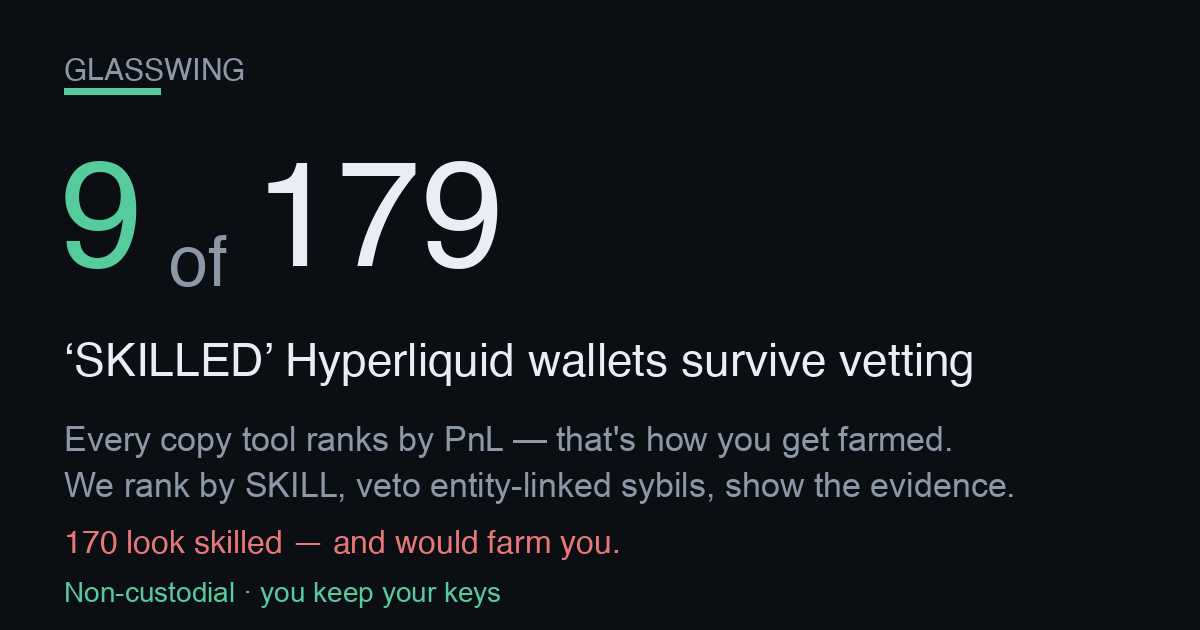
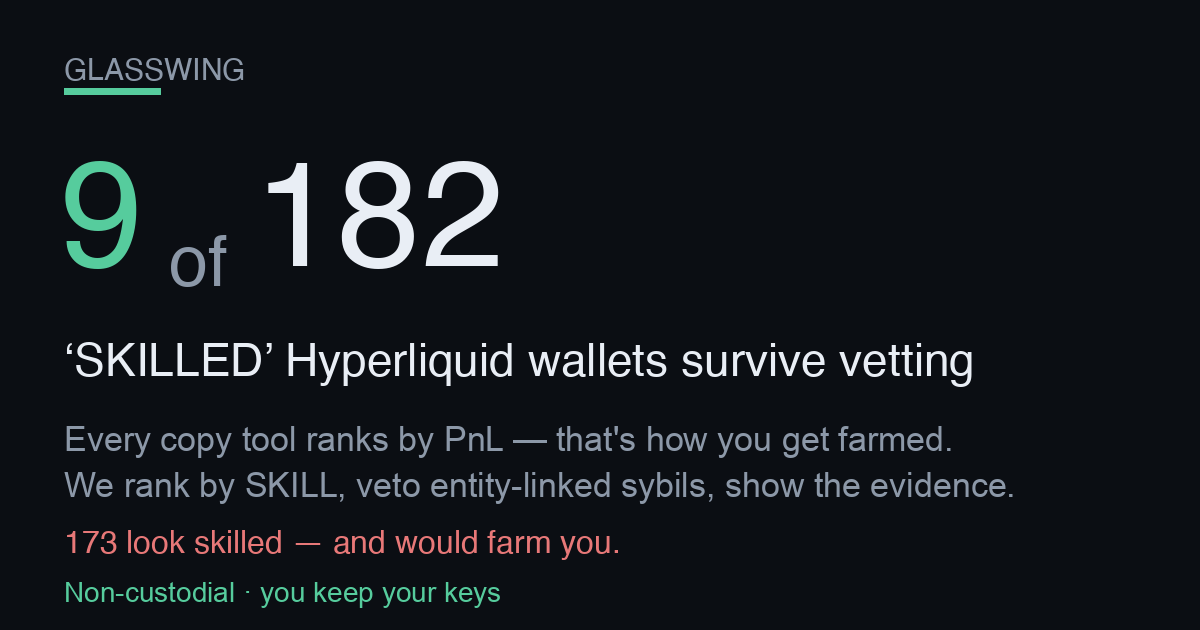
publish funnel 2026-08-08T13:53:46Z

Changed region(s): [[0.2775, 0.2413, 0.4317, 0.4524]]

diff --git a/screener.html b/screener.html
@@ -57,4 +57,4 @@ padding:11px 22px;font-size:15px;font-weight:800;border:1px solid var(--good)}
 footer{margin-top:34px;color:var(--muted);font-size:12px;line-height:1.6;
 border-top:1px solid var(--line);padding-top:16px}
 footer b{color:var(--ink)}
-</style></head><body><div class="wrap"><div class="nav"><a href="./index.html">&larr; Glasswing home</a><span class="sep">|</span><span>Edge Screener</span><span class="sep">|</span><a href="./dex.html">Copy a vetted leader</a></div><div class="hero"><h1>Hyperliquid Edge Screener</h1><div class="sub">Where&rsquo;s the carry, where a maker earns, and what&rsquo;s moving on Hyperliquid &mdash; live, computed from the public API. Bookmark it. Every number below is real and timestamped.</div><div class="stamp">Data as of <b>2026-08-08T07:48:30Z</b> &middot; rendered 2026-08-08T07:48:30Z &middot; 177 perps &middot; 94 HIP-3 (xyz) markets scanned</div></div><h2>Top funding &mdash; the carry table <span class="hint">perps ranked by annualized funding. Positive = longs pay shorts (a delta-neutral short earns it).</span></h2><div class="tblwrap"><table><thead><tr><th>Coin</th><th>Funding / hr</th><th>Annualized</th><th>Who pays</th><th>Open interest</th><th>24h volume</th></tr></thead><tbody><tr><td class="coin">ACE</td><td>-0.0771%</td><td class="neg">-675.5%</td><td><span class="tag shorts">shorts pay</span></td><td>$1.2M</td><td>$8.5M</td></tr><tr><td class="coin">CASHCAT</td><td>+0.0235%</td><td class="pos">+205.7%</td><td><span class="tag longs">longs pay</span></td><td>$14.3M</td><td>$12.6M</td></tr><tr><td class="coin">0G<span class="tag thin" title="Low liquidity/OI &mdash; ADL &amp; liquidation risk; funding can flip">&#9888; thin</span></td><td>-0.0126%</td><td class="neg">-110.4%</td><td><span class="tag shorts">shorts pay</span></td><td>$155K</td><td>$224K</td></tr><tr><td class="coin">MINA<span class="tag thin" title="Low liquidity/OI &mdash; ADL &amp; liquidation risk; funding can flip">&#9888; thin</span></td><td>-0.0118%</td><td class="neg">-103.5%</td><td><span class="tag shorts">shorts pay</span></td><td>$700K</td><td>$85K</td></tr><tr><td class="coin">ALT<span class="tag thin" title="Low liquidity/OI &mdash; ADL &amp; liquidation risk; funding can flip">&#9888; thin</span></td><td>-0.0094%</td><td class="neg">-82.6%</td><td><span class="tag shorts">shorts pay</span></td><td>$612K</td><td>$85K</td></tr><tr><td class="coin">FARTCOIN</td><td>+0.0069%</td><td class="pos">+60.7%</td><td><span class="tag longs">longs pay</span></td><td>$22.1M</td><td>$5.1M</td></tr><tr><td class="coin">BERA<span class="tag thin" title="Low liquidity/OI &mdash; ADL &amp; liquidation risk; funding can flip">&#9888; thin</span></td><td>-0.0065%</td><td class="neg">-56.8%</td><td><span class="tag shorts">shorts pay</span></td><td>$1.3M</td><td>$171K</td></tr><tr><td class="coin">ZK<span class="tag thin" title="Low liquidity/OI &mdash; ADL &amp; liquidation risk; funding can flip">&#9888; thin</span></td><td>-0.0063%</td><td class="neg">-55.2%</td><td><span class="tag shorts">shorts pay</span></td><td>$561K</td><td>$99K</td></tr><tr><td class="coin">MORPHO</td><td>-0.0059%</td><td class="neg">-51.3%</td><td><span class="tag shorts">shorts pay</span></td><td>$4.0M</td><td>$598K</td></tr><tr><td class="coin">HYPER<span class="tag thin" title="Low liquidity/OI &mdash; ADL &amp; liquidation risk; funding can flip">&#9888; thin</span></td><td>-0.0057%</td><td class="neg">-50.1%</td><td><span class="tag shorts">shorts pay</span></td><td>$324K</td><td>$143K</td></tr><tr><td class="coin">AVNT</td><td>-0.0057%</td><td class="neg">-49.7%</td><td><span class="tag shorts">shorts pay</span></td><td>$755K</td><td>$390K</td></tr><tr><td class="coin">IMX<span class="tag thin" title="Low liquidity/OI &mdash; ADL &amp; liquidation risk; funding can flip">&#9888; thin</span></td><td>-0.0051%</td><td class="neg">-44.9%</td><td><span class="tag shorts">shorts pay</span></td><td>$872K</td><td>$179K</td></tr></tbody></table></div><h2>Widest HIP-3 spreads &mdash; where a maker earns <span class="hint">xyz: markets by impact-price spread vs the ~0.6bps round-trip fee. A resting limit order captures the gap.</span></h2><div class="tblwrap"><table><thead><tr><th>Market</th><th>Spread</th><th>vs 0.6bps fee</th><th>Mid</th><th>24h volume</th></tr></thead><tbody><tr><td class="coin">xyz:NCLD<span class="tag gm">growth</span></td><td>623.0 bps</td><td class="pos">+622.4 bps</td><td>23.0355</td><td>$376K</td></tr><tr><td class="coin">xyz:LYTE<span class="tag gm">growth</span></td><td>196.6 bps</td><td class="pos">+196.0 bps</td><td>27.5300</td><td>$1.3M</td></tr><tr><td class="coin">xyz:GEV<span class="tag gm">growth</span></td><td>160.2 bps</td><td class="pos">+159.6 bps</td><td>993.1400</td><td>$707K</td></tr><tr><td class="coin">xyz:GIGADEV<span class="tag gm">growth</span></td><td>143.7 bps</td><td class="pos">+143.1 bps</td><td>60.6105</td><td>$102K</td></tr><tr><td class="coin">xyz:BIRD<span class="tag gm">growth</span></td><td>136.8 bps</td><td class="pos">+136.2 bps</td><td>2.5274</td><td>$341K</td></tr><tr><td class="coin">xyz:SOFTBANK<span class="tag gm">growth</span></td><td>126.3 bps</td><td class="pos">+125.7 bps</td><td>35.0590</td><td>$101K</td></tr><tr><td class="coin">xyz:SHAZ<span class="tag gm">growth</span></td><td>97.7 bps</td><td class="pos">+97.1 bps</td><td>50.0705</td><td>$646K</td></tr><tr><td class="coin">xyz:UNITREE<span class="tag gm">growth</span></td><td>97.3 bps</td><td class="pos">+96.7 bps</td><td>82.3360</td><td>$5.1M</td></tr><tr><td class="coin">xyz:KORU<span class="tag gm">growth</span></td><td>95.9 bps</td><td class="pos">+95.3 bps</td><td>16.9790</td><td>$1.1M</td></tr><tr><td class="coin">xyz:RIVN<span class="tag gm">growth</span></td><td>84.5 bps</td><td class="pos">+83.9 bps</td><td>16.0950</td><td>$149K</td></tr><tr><td class="coin">xyz:PURRDAT</td><td>81.0 bps</td><td class="pos">+80.4 bps</td><td>6.7538</td><td>$1.4M</td></tr><tr><td class="coin">xyz:JP225<span class="tag gm">growth</span></td><td>77.9 bps</td><td class="pos">+77.3 bps</td><td>66,070.00</td><td>$774K</td></tr></tbody></table></div><h2>Momentum &amp; volume &mdash; what&rsquo;s moving <span class="hint">perps by 24h volume with the 24h price change (mark vs prior-day).</span></h2><div class="tblwrap"><table><thead><tr><th>Coin</th><th>24h volume</th><th>24h change</th><th>Mark</th></tr></thead><tbody><tr><td class="coin">BTC</td><td>$1.19B</td><td class="pos">+0.89%</td><td>64,914.60</td></tr><tr><td class="coin">ETH</td><td>$839.2M</td><td class="pos">+0.59%</td><td>1,913.59</td></tr><tr><td class="coin">HYPE</td><td>$289.3M</td><td class="neg">-2.32%</td><td>54.3380</td></tr><tr><td class="coin">SOL</td><td>$92.4M</td><td class="pos">+2.44%</td><td>74.6900</td></tr><tr><td class="coin">ZEC</td><td>$36.8M</td><td class="pos">+0.62%</td><td>505.1900</td></tr><tr><td class="coin">XRP</td><td>$28.0M</td><td class="pos">+0.63%</td><td>1.0330</td></tr><tr><td class="coin">LIT</td><td>$20.9M</td><td class="neg">-1.47%</td><td>2.3238</td></tr><tr><td class="coin">PUMP</td><td>$17.3M</td><td class="pos">+0.22%</td><td>0.002284</td></tr><tr><td class="coin">CASHCAT</td><td>$12.6M</td><td class="neg">-3.80%</td><td>0.096282</td></tr><tr><td class="coin">ENA</td><td>$10.9M</td><td class="neg">-2.17%</td><td>0.090813</td></tr><tr><td class="coin">ACE</td><td>$8.5M</td><td class="neg">-21.34%</td><td>0.1054</td></tr><tr><td class="coin">KAITO</td><td>$6.5M</td><td class="neg">-17.02%</td><td>0.74211</td></tr></tbody></table></div><div class="cta"><h2>These are the opportunities. Now copy the people who trade them.</h2><p class="lead">Spotting the carry and the spreads is the easy part &mdash; sizing, timing and risk are where most traders bleed. Copy the <b>skill-vetted</b> Hyperliquid leaders who actually trade these edges. Non-custodial: <b>you keep your keys and your funds</b> the entire time.</p><div class="row"><a class="btn" href="./index.html">See the vetted leaders &rarr;</a><a class="btn ghost" href="./dex.html">Start copying (non-custodial) &rarr;</a></div><div class="nc"><b>Non-custodial &amp; honest:</b> we never hold your keys or funds. Copying routes through a <b>0.01%</b> (1bp) on-chain builder fee &mdash; that is the only thing we ever charge, and it is the same fee shown on the copy page. Nothing on this screener is executed for you; it is information only.</div></div><footer><b>Not financial advice.</b> Funding rates, spreads and volumes are live snapshots that change every block; figures can be stale by the time you act. A high funding rate is <b>not free money</b> &mdash; the biggest rates sit on the thinnest, most crowded books (flagged &#9888; thin), where funding can flip against you and auto-deleveraging (ADL) or liquidation can close your position. &ldquo;Spread&rdquo; here is the impact-price spread (a conservative maker signal), not a guaranteed fill. HIP-3 markets are experimental. Do your own research and size responsibly. Glasswing is <b>non-custodial</b> &mdash; we never take custody of your keys or funds.</footer></div></body></html>
+</style></head><body><div class="wrap"><div class="nav"><a href="./index.html">&larr; Glasswing home</a><span class="sep">|</span><span>Edge Screener</span><span class="sep">|</span><a href="./dex.html">Copy a vetted leader</a></div><div class="hero"><h1>Hyperliquid Edge Screener</h1><div class="sub">Where&rsquo;s the carry, where a maker earns, and what&rsquo;s moving on Hyperliquid &mdash; live, computed from the public API. Bookmark it. Every number below is real and timestamped.</div><div class="stamp">Data as of <b>2026-08-08T13:52:16Z</b> &middot; rendered 2026-08-08T13:52:16Z &middot; 177 perps &middot; 94 HIP-3 (xyz) markets scanned</div></div><h2>Top funding &mdash; the carry table <span class="hint">perps ranked by annualized funding. Positive = longs pay shorts (a delta-neutral short earns it).</span></h2><div class="tblwrap"><table><thead><tr><th>Coin</th><th>Funding / hr</th><th>Annualized</th><th>Who pays</th><th>Open interest</th><th>24h volume</th></tr></thead><tbody><tr><td class="coin">KAITO</td><td>-0.1064%</td><td class="neg">-931.9%</td><td><span class="tag shorts">shorts pay</span></td><td>$19.5M</td><td>$12.4M</td></tr><tr><td class="coin">ACE</td><td>-0.0572%</td><td class="neg">-501.2%</td><td><span class="tag shorts">shorts pay</span></td><td>$1.3M</td><td>$4.7M</td></tr><tr><td class="coin">CASHCAT</td><td>+0.0171%</td><td class="pos">+150.2%</td><td><span class="tag longs">longs pay</span></td><td>$15.0M</td><td>$9.2M</td></tr><tr><td class="coin">ICP</td><td>-0.0127%</td><td class="neg">-111.0%</td><td><span class="tag shorts">shorts pay</span></td><td>$2.9M</td><td>$1.7M</td></tr><tr><td class="coin">ZK<span class="tag thin" title="Low liquidity/OI &mdash; ADL &amp; liquidation risk; funding can flip">&#9888; thin</span></td><td>-0.0083%</td><td class="neg">-73.1%</td><td><span class="tag shorts">shorts pay</span></td><td>$598K</td><td>$121K</td></tr><tr><td class="coin">LIT</td><td>-0.0070%</td><td class="neg">-61.1%</td><td><span class="tag shorts">shorts pay</span></td><td>$86.4M</td><td>$17.2M</td></tr><tr><td class="coin">MNT</td><td>+0.0058%</td><td class="pos">+51.2%</td><td><span class="tag longs">longs pay</span></td><td>$1.8M</td><td>$444K</td></tr><tr><td class="coin">SKY<span class="tag thin" title="Low liquidity/OI &mdash; ADL &amp; liquidation risk; funding can flip">&#9888; thin</span></td><td>-0.0053%</td><td class="neg">-46.4%</td><td><span class="tag shorts">shorts pay</span></td><td>$2.1M</td><td>$230K</td></tr><tr><td class="coin">FARTCOIN</td><td>+0.0048%</td><td class="pos">+42.0%</td><td><span class="tag longs">longs pay</span></td><td>$22.4M</td><td>$4.2M</td></tr><tr><td class="coin">CC</td><td>-0.0048%</td><td class="neg">-41.8%</td><td><span class="tag shorts">shorts pay</span></td><td>$2.4M</td><td>$1.4M</td></tr><tr><td class="coin">POPCAT<span class="tag thin" title="Low liquidity/OI &mdash; ADL &amp; liquidation risk; funding can flip">&#9888; thin</span></td><td>-0.0040%</td><td class="neg">-34.8%</td><td><span class="tag shorts">shorts pay</span></td><td>$1.0M</td><td>$133K</td></tr><tr><td class="coin">XAI<span class="tag thin" title="Low liquidity/OI &mdash; ADL &amp; liquidation risk; funding can flip">&#9888; thin</span></td><td>-0.0039%</td><td class="neg">-34.4%</td><td><span class="tag shorts">shorts pay</span></td><td>$315K</td><td>$271K</td></tr></tbody></table></div><h2>Widest HIP-3 spreads &mdash; where a maker earns <span class="hint">xyz: markets by impact-price spread vs the ~0.6bps round-trip fee. A resting limit order captures the gap.</span></h2><div class="tblwrap"><table><thead><tr><th>Market</th><th>Spread</th><th>vs 0.6bps fee</th><th>Mid</th><th>24h volume</th></tr></thead><tbody><tr><td class="coin">xyz:NCLD<span class="tag gm">growth</span></td><td>493.6 bps</td><td class="pos">+493.0 bps</td><td>22.6920</td><td>$128K</td></tr><tr><td class="coin">xyz:LYTE<span class="tag gm">growth</span></td><td>229.2 bps</td><td class="pos">+228.6 bps</td><td>27.5050</td><td>$959K</td></tr><tr><td class="coin">xyz:SOFTBANK<span class="tag gm">growth</span></td><td>183.2 bps</td><td class="pos">+182.6 bps</td><td>35.2260</td><td>$63K</td></tr><tr><td class="coin">xyz:BIRD<span class="tag gm">growth</span></td><td>138.4 bps</td><td class="pos">+137.8 bps</td><td>2.5370</td><td>$245K</td></tr><tr><td class="coin">xyz:GEV<span class="tag gm">growth</span></td><td>136.9 bps</td><td class="pos">+136.3 bps</td><td>994.6750</td><td>$705K</td></tr><tr><td class="coin">xyz:GIGADEV<span class="tag gm">growth</span></td><td>130.4 bps</td><td class="pos">+129.8 bps</td><td>61.4050</td><td>$94K</td></tr><tr><td class="coin">xyz:URNM<span class="tag gm">growth</span></td><td>121.4 bps</td><td class="pos">+120.8 bps</td><td>55.3865</td><td>$208K</td></tr><tr><td class="coin">xyz:DKNG<span class="tag gm">growth</span></td><td>89.5 bps</td><td class="pos">+88.9 bps</td><td>24.0665</td><td>$329K</td></tr><tr><td class="coin">xyz:BOT<span class="tag gm">growth</span></td><td>88.5 bps</td><td class="pos">+87.9 bps</td><td>28.1995</td><td>$1.2M</td></tr><tr><td class="coin">xyz:SHAZ<span class="tag gm">growth</span></td><td>86.5 bps</td><td class="pos">+85.9 bps</td><td>49.8075</td><td>$458K</td></tr><tr><td class="coin">xyz:SMH<span class="tag gm">growth</span></td><td>81.3 bps</td><td class="pos">+80.7 bps</td><td>583.6800</td><td>$250K</td></tr><tr><td class="coin">xyz:KR200<span class="tag gm">growth</span></td><td>80.7 bps</td><td class="pos">+80.1 bps</td><td>981.7300</td><td>$556K</td></tr></tbody></table></div><h2>Momentum &amp; volume &mdash; what&rsquo;s moving <span class="hint">perps by 24h volume with the 24h price change (mark vs prior-day).</span></h2><div class="tblwrap"><table><thead><tr><th>Coin</th><th>24h volume</th><th>24h change</th><th>Mark</th></tr></thead><tbody><tr><td class="coin">BTC</td><td>$672.6M</td><td class="neg">-0.01%</td><td>64,977.00</td></tr><tr><td class="coin">ETH</td><td>$370.3M</td><td class="neg">-0.21%</td><td>1,918.70</td></tr><tr><td class="coin">HYPE</td><td>$242.9M</td><td class="neg">-3.20%</td><td>54.4400</td></tr><tr><td class="coin">SOL</td><td>$88.0M</td><td class="pos">+1.87%</td><td>75.4730</td></tr><tr><td class="coin">ZEC</td><td>$39.5M</td><td class="neg">-1.60%</td><td>502.3100</td></tr><tr><td class="coin">XRP</td><td>$33.5M</td><td class="pos">+0.59%</td><td>1.0413</td></tr><tr><td class="coin">LIT</td><td>$17.2M</td><td class="neg">-5.45%</td><td>2.3342</td></tr><tr><td class="coin">PUMP</td><td>$15.7M</td><td class="neg">-1.54%</td><td>0.002298</td></tr><tr><td class="coin">KAITO</td><td>$12.4M</td><td class="neg">-21.61%</td><td>0.69586</td></tr><tr><td class="coin">CASHCAT</td><td>$9.2M</td><td class="neg">-5.33%</td><td>0.099441</td></tr><tr><td class="coin">UNI</td><td>$5.6M</td><td class="neg">-1.46%</td><td>3.9631</td></tr><tr><td class="coin">ENA</td><td>$5.5M</td><td class="neg">-4.73%</td><td>0.090855</td></tr></tbody></table></div><div class="cta"><h2>These are the opportunities. Now copy the people who trade them.</h2><p class="lead">Spotting the carry and the spreads is the easy part &mdash; sizing, timing and risk are where most traders bleed. Copy the <b>skill-vetted</b> Hyperliquid leaders who actually trade these edges. Non-custodial: <b>you keep your keys and your funds</b> the entire time.</p><div class="row"><a class="btn" href="./index.html">See the vetted leaders &rarr;</a><a class="btn ghost" href="./dex.html">Start copying (non-custodial) &rarr;</a></div><div class="nc"><b>Non-custodial &amp; honest:</b> we never hold your keys or funds. Copying routes through a <b>0.01%</b> (1bp) on-chain builder fee &mdash; that is the only thing we ever charge, and it is the same fee shown on the copy page. Nothing on this screener is executed for you; it is information only.</div></div><footer><b>Not financial advice.</b> Funding rates, spreads and volumes are live snapshots that change every block; figures can be stale by the time you act. A high funding rate is <b>not free money</b> &mdash; the biggest rates sit on the thinnest, most crowded books (flagged &#9888; thin), where funding can flip against you and auto-deleveraging (ADL) or liquidation can close your position. &ldquo;Spread&rdquo; here is the impact-price spread (a conservative maker signal), not a guaranteed fill. HIP-3 markets are experimental. Do your own research and size responsibly. Glasswing is <b>non-custodial</b> &mdash; we never take custody of your keys or funds.</footer></div></body></html>

diff --git a/track.html b/track.html
@@ -62,7 +62,7 @@ font-weight:600;font-size:14px}
 <div class="wrap">
   <div class="hero">
     <h1>Self-verifying on-chain track record</h1>
-    <div class="big">$210.44</div>
+    <div class="big">$209.87</div>
     <div class="sub">current on-chain equity (perp + vault + spot USDC)</div>
     <div class="addr">0xbe6C1b09662BbE52CC93279D103Feb27985DdBc1</div>
     <div class="stage early">20 days live — EARLY / NOT YET A MATURE RECORD</div>
@@ -72,25 +72,25 @@ font-weight:600;font-size:14px}
 
   <h2>On-chain figures <span style="color:var(--muted);font-weight:400;font-size:13px">
   &mdash; every one reproducible from the public info API</span></h2>
-  <table><tbody><tr><td class="k">On-chain equity (perp + vault + spot USDC)</td><td class="v">$210.44</td></tr><tr><td class="k">Perp account value</td><td class="v">$159.09</td></tr><tr><td class="k">Vault equity</td><td class="v">$50.81</td></tr><tr><td class="k">Spot USDC</td><td class="v">$0.55</td></tr><tr><td class="k">Withdrawable</td><td class="v">$142.97</td></tr></tbody></table>
+  <table><tbody><tr><td class="k">On-chain equity (perp + vault + spot USDC)</td><td class="v">$209.87</td></tr><tr><td class="k">Perp account value</td><td class="v">$158.50</td></tr><tr><td class="k">Vault equity</td><td class="v">$50.82</td></tr><tr><td class="k">Spot USDC</td><td class="v">$0.55</td></tr><tr><td class="k">Withdrawable</td><td class="v">$149.90</td></tr></tbody></table>
 
-  <h2>Vault deposits (on-chain)</h2><table><thead><tr><th>Vault address</th><th>Our equity</th></tr></thead><tbody><tr><td class="mono">0x2431edfcb662e6ff6deab113cc91878a0b53fb0f</td><td class="v">$0.01</td></tr><tr><td class="mono">0x697bc3dd77539fa84156d0e1c95287ea5524fd6b</td><td class="v">$26.23</td></tr><tr><td class="mono">0x8825e6ed11c7f9c0874579c9f4bba192b9e81c8f</td><td class="v">$0.12</td></tr><tr><td class="mono">0xc71f5a493b937e4b1798b86510630336a6dfd804</td><td class="v">$24.45</td></tr></tbody></table>
+  <h2>Vault deposits (on-chain)</h2><table><thead><tr><th>Vault address</th><th>Our equity</th></tr></thead><tbody><tr><td class="mono">0x2431edfcb662e6ff6deab113cc91878a0b53fb0f</td><td class="v">$0.01</td></tr><tr><td class="mono">0x697bc3dd77539fa84156d0e1c95287ea5524fd6b</td><td class="v">$26.19</td></tr><tr><td class="mono">0x8825e6ed11c7f9c0874579c9f4bba192b9e81c8f</td><td class="v">$0.12</td></tr><tr><td class="mono">0xc71f5a493b937e4b1798b86510630336a6dfd804</td><td class="v">$24.51</td></tr></tbody></table>
 
   <h2>Performance <span style="color:var(--muted);font-weight:400;font-size:13px">
   &mdash; honest stage, no annualization</span></h2>
-  <table><tbody><tr><td class="k">Days live (our formal record)</td><td class="v">20</td></tr><tr><td class="k">Maturity</td><td class="v">EARLY / NOT YET A MATURE RECORD</td></tr><tr><td class="k">Current real strategy income / day</td><td class="v">$-0.1524</td></tr><tr><td class="k">Cumulative net income (if attributed)</td><td class="v">$-0.3405</td></tr><tr><td class="k">Annualized APR</td><td class="v">intentionally NOT computed (record too young)</td></tr></tbody></table>
+  <table><tbody><tr><td class="k">Days live (our formal record)</td><td class="v">20</td></tr><tr><td class="k">Maturity</td><td class="v">EARLY / NOT YET A MATURE RECORD</td></tr><tr><td class="k">Current real strategy income / day</td><td class="v">$-0.1493</td></tr><tr><td class="k">Cumulative net income (if attributed)</td><td class="v">$-0.3154</td></tr><tr><td class="k">Annualized APR</td><td class="v">intentionally NOT computed (record too young)</td></tr></tbody></table>
 
   <h2>Strategy arms <span style="color:var(--muted);font-weight:400;font-size:13px">
   &mdash; internal marks, cross-checkable against chain equity</span></h2>
-  <table><thead><tr><th>Arm</th><th>Status</th><th>Real / day</th><th>Note</th></tr></thead><tbody><tr><td class="v">carry</td><td><span class="badge off">—</span></td><td class="v">$-0.1524</td><td class="k"></td></tr><tr><td class="v">copy</td><td><span class="badge live">live</span></td><td class="v">$0.0000</td><td class="k"></td></tr><tr><td class="v">builder</td><td><span class="badge off">—</span></td><td class="v">$0.0000</td><td class="k">proven live; $0 until distributed (∝ users&#x27; volume)</td></tr></tbody></table>
+  <table><thead><tr><th>Arm</th><th>Status</th><th>Real / day</th><th>Note</th></tr></thead><tbody><tr><td class="v">carry</td><td><span class="badge off">—</span></td><td class="v">$-0.1493</td><td class="k"></td></tr><tr><td class="v">copy</td><td><span class="badge live">live</span></td><td class="v">$0.0000</td><td class="k"></td></tr><tr><td class="v">builder</td><td><span class="badge off">—</span></td><td class="v">$0.0000</td><td class="k">proven live; $0 until distributed (∝ users&#x27; volume)</td></tr></tbody></table>
 
   <h2>Reproduce it</h2>
   <div class="verify"><h3>Verify this yourself</h3><p>These are PUBLIC calls. Run them yourself against the address below and you will re-derive every on-chain figure on this page. equity_usd = perp accountValue + vault equity + spot USDC. Endpoint: https://api.hyperliquid.xyz/info</p><div class="cn">clearinghouseState &rarr; marginSummary.accountValue (perp value), withdrawable, marginSummary.totalMarginUsed</div><pre>curl -s -X POST https://api.hyperliquid.xyz/info -H &#x27;Content-Type: application/json&#x27; -d &#x27;{&quot;type&quot;: &quot;clearinghouseState&quot;, &quot;user&quot;: &quot;0xbe6C1b09662BbE52CC93279D103Feb27985DdBc1&quot;}&#x27;</pre><div class="cn">userVaultEquities &rarr; sum of each entry&#x27;s equity (our vault deposits)</div><pre>curl -s -X POST https://api.hyperliquid.xyz/info -H &#x27;Content-Type: application/json&#x27; -d &#x27;{&quot;type&quot;: &quot;userVaultEquities&quot;, &quot;user&quot;: &quot;0xbe6C1b09662BbE52CC93279D103Feb27985DdBc1&quot;}&#x27;</pre><div class="cn">spotClearinghouseState &rarr; balances[] where coin==USDC -&gt; total (spot USDC)</div><pre>curl -s -X POST https://api.hyperliquid.xyz/info -H &#x27;Content-Type: application/json&#x27; -d &#x27;{&quot;type&quot;: &quot;spotClearinghouseState&quot;, &quot;user&quot;: &quot;0xbe6C1b09662BbE52CC93279D103Feb27985DdBc1&quot;}&#x27;</pre></div>
 
   <footer>
     <div>Self-verifying: every on-chain figure is reproducible by querying Hyperliquid&#x27;s public info API for the stated address. Internal daily marks are cross-checkable against on-chain equity. EARLY-STAGE record — not a mature track record, not an APR promise, not financial advice. Past performance != future results.</div>
-    <div class="stamp">Generated at 2026-08-08T07:46:51Z &middot; internal marks
-    mtime 2026-08-08T05:00:45Z &middot; static receipt, no live
+    <div class="stamp">Generated at 2026-08-08T13:51:28Z &middot; internal marks
+    mtime 2026-08-08T11:00:59Z &middot; static receipt, no live
     authority — this page never trades or arms.</div>
   </footer>
 </div>

diff --git a/index.html b/index.html
@@ -3,8 +3,8 @@
 <head>
 <meta charset="utf-8">
 <meta name="viewport" content="width=device-width, initial-scale=1">
-<title>9 of 179 SKILLED Hyperliquid wallets survive vetting</title>
-<meta name="description" content="9 of 179 leaderboard-SKILLED Hyperliquid wallets survive vetting. Copy only the survivors, non-custodial — you keep your keys and funds.">
+<title>9 of 182 SKILLED Hyperliquid wallets survive vetting</title>
+<meta name="description" content="9 of 182 leaderboard-SKILLED Hyperliquid wallets survive vetting. Copy only the survivors, non-custodial — you keep your keys and funds.">
 <link rel="canonical" href="https://dynobit.github.io/glasswing/">
 <meta name="robots" content="index,follow">
 <meta name="theme-color" content="#0b0e13">
@@ -14,14 +14,14 @@
      head, not this. og:url is the canonical Pages home so every share resolves here. -->
 <meta property="og:type" content="website">
 <meta property="og:site_name" content="Glasswing">
-<meta property="og:title" content="9 of 179 SKILLED Hyperliquid wallets survive vetting">
+<meta property="og:title" content="9 of 182 SKILLED Hyperliquid wallets survive vetting">
 <meta property="og:description" content="Every copy tool ranks leaders by PnL — which is how you get farmed. This ranks by SKILL, then vetoes entity-linked sybils, and shows the evidence for every reject. Non-custodial: you keep your keys.">
 <meta property="og:url" content="https://dynobit.github.io/glasswing/">
 <meta property="og:image" content="https://dynobit.github.io/glasswing/og-card.png">
 <meta property="og:image:width" content="1200">
 <meta property="og:image:height" content="630">
 <meta name="twitter:card" content="summary_large_image">
-<meta name="twitter:title" content="9 of 179 SKILLED Hyperliquid wallets survive vetting">
+<meta name="twitter:title" content="9 of 182 SKILLED Hyperliquid wallets survive vetting">
 <meta name="twitter:description" content="Skill-ranked (not PnL-ranked) HL copy-leaders, entity-linked sybils vetoed with evidence. Non-custodial.">
 <meta name="twitter:image" content="https://dynobit.github.io/glasswing/og-card.png">
 <style>
@@ -135,18 +135,18 @@ footer .nc{color:var(--good);font-weight:600}
 
   <!-- 1. HERO — the shareable hook (screenshot-worthy) -->
   <div class="hero">
-    <h1><span class="big">9 of 179</span> &lsquo;SKILLED&rsquo;
+    <h1><span class="big">9 of 182</span> &lsquo;SKILLED&rsquo;
     Hyperliquid wallets survive vetting</h1>
-    <div class="sub">The other <span class="trap">170</span> look skilled on a
+    <div class="sub">The other <span class="trap">173</span> look skilled on a
     raw copy leaderboard but would farm you &mdash; here are the
-    <span class="trap">170</span> that would. Entity-linked sybils,
-    wash-traded track records, or simply unscreened. 5.0% survive.
-    Universe: 1518 scored wallets.</div>
+    <span class="trap">173</span> that would. Entity-linked sybils,
+    wash-traded track records, or simply unscreened. 4.9% survive.
+    Universe: 1536 scored wallets.</div>
   </div>
 
   <!-- 2. THE WEDGE — the marketing (why us, not any other copy tool) -->
   <div class="wedge"><span class="them">Every other copy tool ranks all
-    179 by PnL and calls it a leaderboard.</span> We are the only one that
+    182 by PnL and calls it a leaderboard.</span> We are the only one that
     <b>flags the entity-linked and farming wallets with on-chain evidence</b> &mdash;
     transfer-graph linkage between wallets and arXiv memecoin farm-features &mdash;
     and shows you only the 9 that survive. A high PnL is exactly what a
@@ -268,7 +268,7 @@ footer .nc{color:var(--good);font-weight:600}
   <footer>
     <div class="nc">Non-custodial: we never hold your keys or funds. No server, no backend. Your browser talks only to Hyperliquid&#x27;s public API.</div>
     <div>Advisory. Skill = sign-randomization null vs luck. Entity veto = public transfer-graph linkage. Farm screen = arXiv:2601.08641 features (memecoin thresholds, HL-uncalibrated). Follower-realizable PnL is NOT yet proven — a PRE-COMMITTED forward test is in progress (0/2 windows, earliest 2026-08-13); the copyability claim publishes only when the pre-registered windows close, so it cannot be discovery-mined. Exit-alpha shown is advisory. Not financial advice.</div>
-    <div class="stamp">Generated at 2026-08-08T07:47:16Z &middot; single-file funnel,
+    <div class="stamp">Generated at 2026-08-08T13:51:39Z &middot; single-file funnel,
     no live authority. In-browser order signing is IMPLEMENTED (real secp256k1 +
     keccak + msgpack EIP-712 from a pinned CDN) but UNVALIDATED against Hyperliquid:
     mainnet is blocked until a testnet order is proven accepted.</div>

diff --git a/dex.html b/dex.html
@@ -112,8 +112,8 @@ footer .nc{color:var(--good);font-weight:600}
     funds and your keys the whole time. Two signatures in your own wallet, an
     ephemeral in-browser agent key that can trade but never withdraw, and a
     client-side loop that mirrors only the
-    <b>9 of 179</b> vetted survivors
-    (universe: 1518 scored wallets). No server, no backend.</div>
+    <b>9 of 182</b> vetted survivors
+    (universe: 1536 scored wallets). No server, no backend.</div>
     <div class="tag">static bundle &middot; IPFS-publishable &middot; revenue accrues on-chain</div>
   </div>
 
@@ -217,7 +217,7 @@ footer .nc{color:var(--good);font-weight:600}
   <footer>
     <div class="nc">Pure DEX, self-custodial. No server, no backend, no key we ever hold. Your browser talks only to Hyperliquid&#x27;s public API.</div>
     <div>Advisory. Skill = sign-randomization null vs luck. Entity veto = public transfer-graph linkage. Farm screen = arXiv:2601.08641 features (memecoin thresholds, HL-uncalibrated). Follower-realizable PnL is NOT yet proven — a PRE-COMMITTED forward test is in progress (0/2 windows, earliest 2026-08-13); the copyability claim publishes only when the pre-registered windows close, so it cannot be discovery-mined. Exit-alpha shown is advisory. Not financial advice.</div>
-    <div class="stamp">Generated at 2026-08-08T07:47:16Z &middot; static,
+    <div class="stamp">Generated at 2026-08-08T13:51:39Z &middot; static,
     self-custodial surface, no live authority. In-browser order signing is
     IMPLEMENTED (real secp256k1 + keccak + msgpack EIP-712 from a pinned CDN) but
     UNVALIDATED against Hyperliquid: mainnet is blocked until a testnet order is
